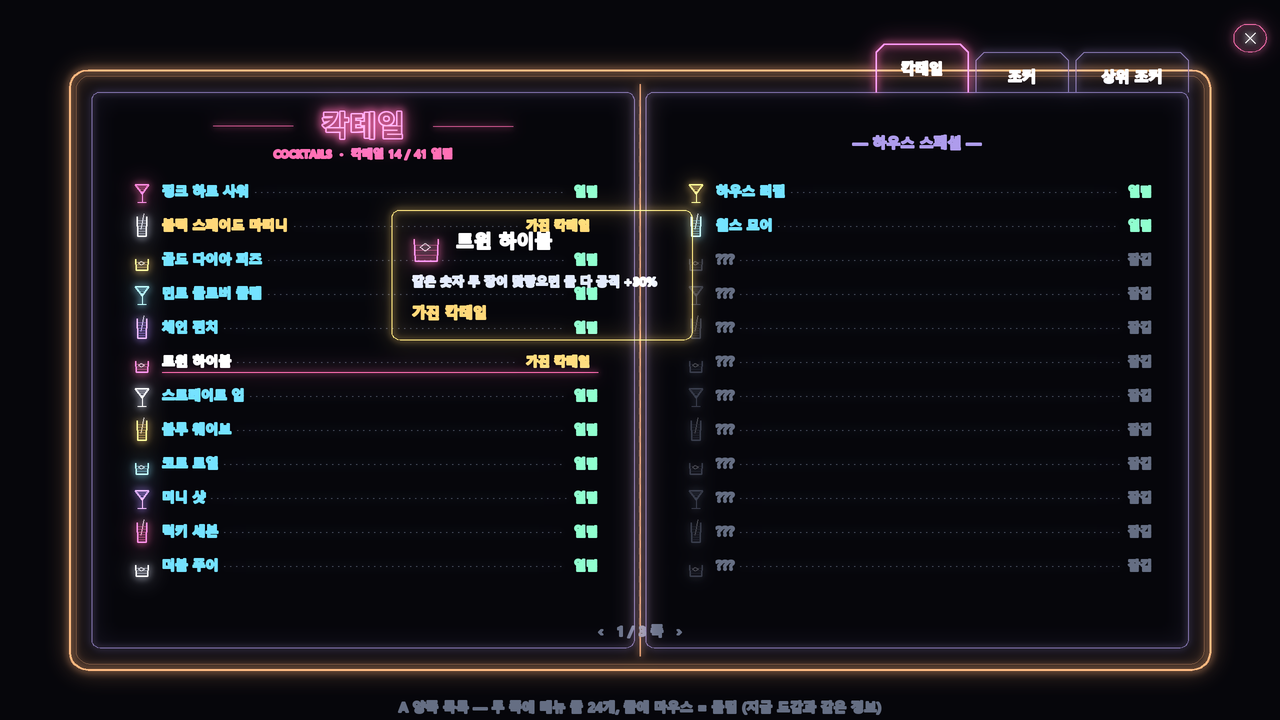
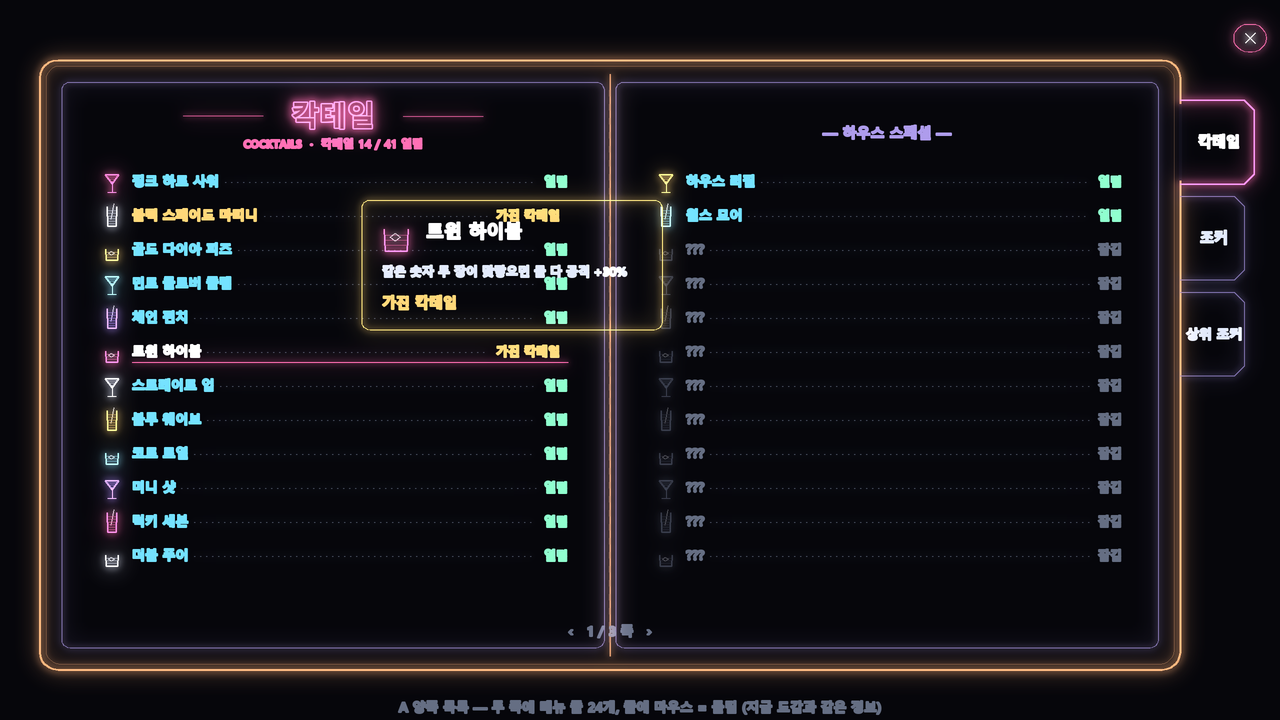
시안: 도감 책자 탭을 오른쪽 옆면 색인으로

Changed region(s): [[0.0, 0.0306, 1.0, 0.9472]]

diff --git a/tools/neon/codex_book_mock.py b/tools/neon/codex_book_mock.py
@@ -1,4 +1,4 @@
-"""도감을 책자 메뉴판으로 (시안). 펼친 메뉴 책 두 쪽, 오른쪽 쪽 위에 책갈피 탭: 칵테일 · 조커 · 상위 조커 (그 순서)
+"""도감을 책자 메뉴판으로 (시안). 펼친 메뉴 책 두 쪽, 오른쪽 옆면에 색인 탭: 위에서부터 칵테일 · 조커 · 상위 조커
 
     python tools/neon/codex_book_mock.py 출력폴더   → codex_book_A.png, codex_book_B.png
 
@@ -19,7 +19,7 @@ NAMES = ['핑크 하트 사워', '블랙 스페이드 마티니', '골드 다이
          '코트 로열', '미니 샷', '럭키 세븐', '더블 푸어', '하우스 리필', '원스 모어', '아이 오프너', '프로스트 다이키리', '플레이밍 볼', '스크루드라이버',
          '에이스 오브 진', '이븐 스플릿', '오드볼', '풀하우스 펀치', '네잎 클로버 클럽', '글라스 캐논']
 COLS = [hx('ff6aaa'), hx('e8eeff'), hx('ffd26e'), hx('8fe9ff'), hx('b48cff')]
-BX, BY, BW, BH = 70, 70, 1140, 600  # 책 바깥
+BX, BY, BW, BH = 40, 60, 1140, 610  # 책 바깥 (오른쪽에 옆면 탭 자리 60)
 SPX = BX + BW / 2  # 책등
 
 
@@ -50,16 +50,16 @@ def book(M):
         M.rr(x0, BY + 22, BW / 2 - 28, BH - 44, 8, LAV, 1.2, 0.55)
     M.ln([(SPX, BY + 14), (SPX, BY + BH - 14)], COVER, 1.6, 0.8)
     for y in range(BY + 30, BY + BH - 24, 14): M.ln([(SPX - 1, y), (SPX - 1, y + 6)], COVER, 1.0, 0.5)  # 꿰맨 점선
-    # 책갈피 탭: 오른쪽 쪽 위 (칵테일 · 조커 · 상위 조커)
+    # 책갈피 탭: 책 오른쪽 옆면에 붙어 밖으로 나온 색인 탭, 위에서부터 칵테일 · 조커 · 상위 조커 (고른 탭은 더 길게 나옴)
     tabs = [('칵테일', True), ('조커', False), ('상위 조커', False)]
-    tx = SPX + 236
+    ex = BX + BW  # 책 오른쪽 옆면
     for i, (nm, on) in enumerate(tabs):
-        w = 92 if i < 2 else 112
-        y0 = BY - 26 if on else BY - 18
+        y0, h = BY + 40 + i * 96, 84
+        w = 74 if on else 64
         c = PINK if on else LAV
-        M.ln([(tx, BY + 22), (tx, y0 + 8), (tx + 8, y0), (tx + w - 8, y0), (tx + w, y0 + 8), (tx + w, BY + 22)], c, 1.8 if on else 1.2, 1.0 if on else 0.55)
-        M.word(tx + w / 2, y0 + 30, nm, WHITE if on else FG, 14, font=FONT_KO)
-        tx += w + 8
+        M.ln([(ex, y0), (ex + w - 10, y0), (ex + w, y0 + 10), (ex + w, y0 + h - 10), (ex + w - 10, y0 + h), (ex, y0 + h)], c, 1.8 if on else 1.2, 1.0 if on else 0.55)
+        if on: M.ln([(ex, y0 + 4), (ex, y0 + h - 4)], hx('06060b'), 3.0, 1.0)  # 고른 탭은 책 테와 이어진 듯 (경계선 지움)
+        M.word(ex + w / 2 + 2, y0 + h / 2 + 5, nm, WHITE if on else FG, 13 if len(nm) > 3 else 14, font=FONT_KO)
     # 닫기
     M.rr(1234, 24, 32, 28, 14, PINK, 1.2, 0.7)
     M.ln([(1245, 33), (1255, 43)], WHITE, 1.2, 0.9); M.ln([(1255, 33), (1245, 43)], WHITE, 1.2, 0.9)
